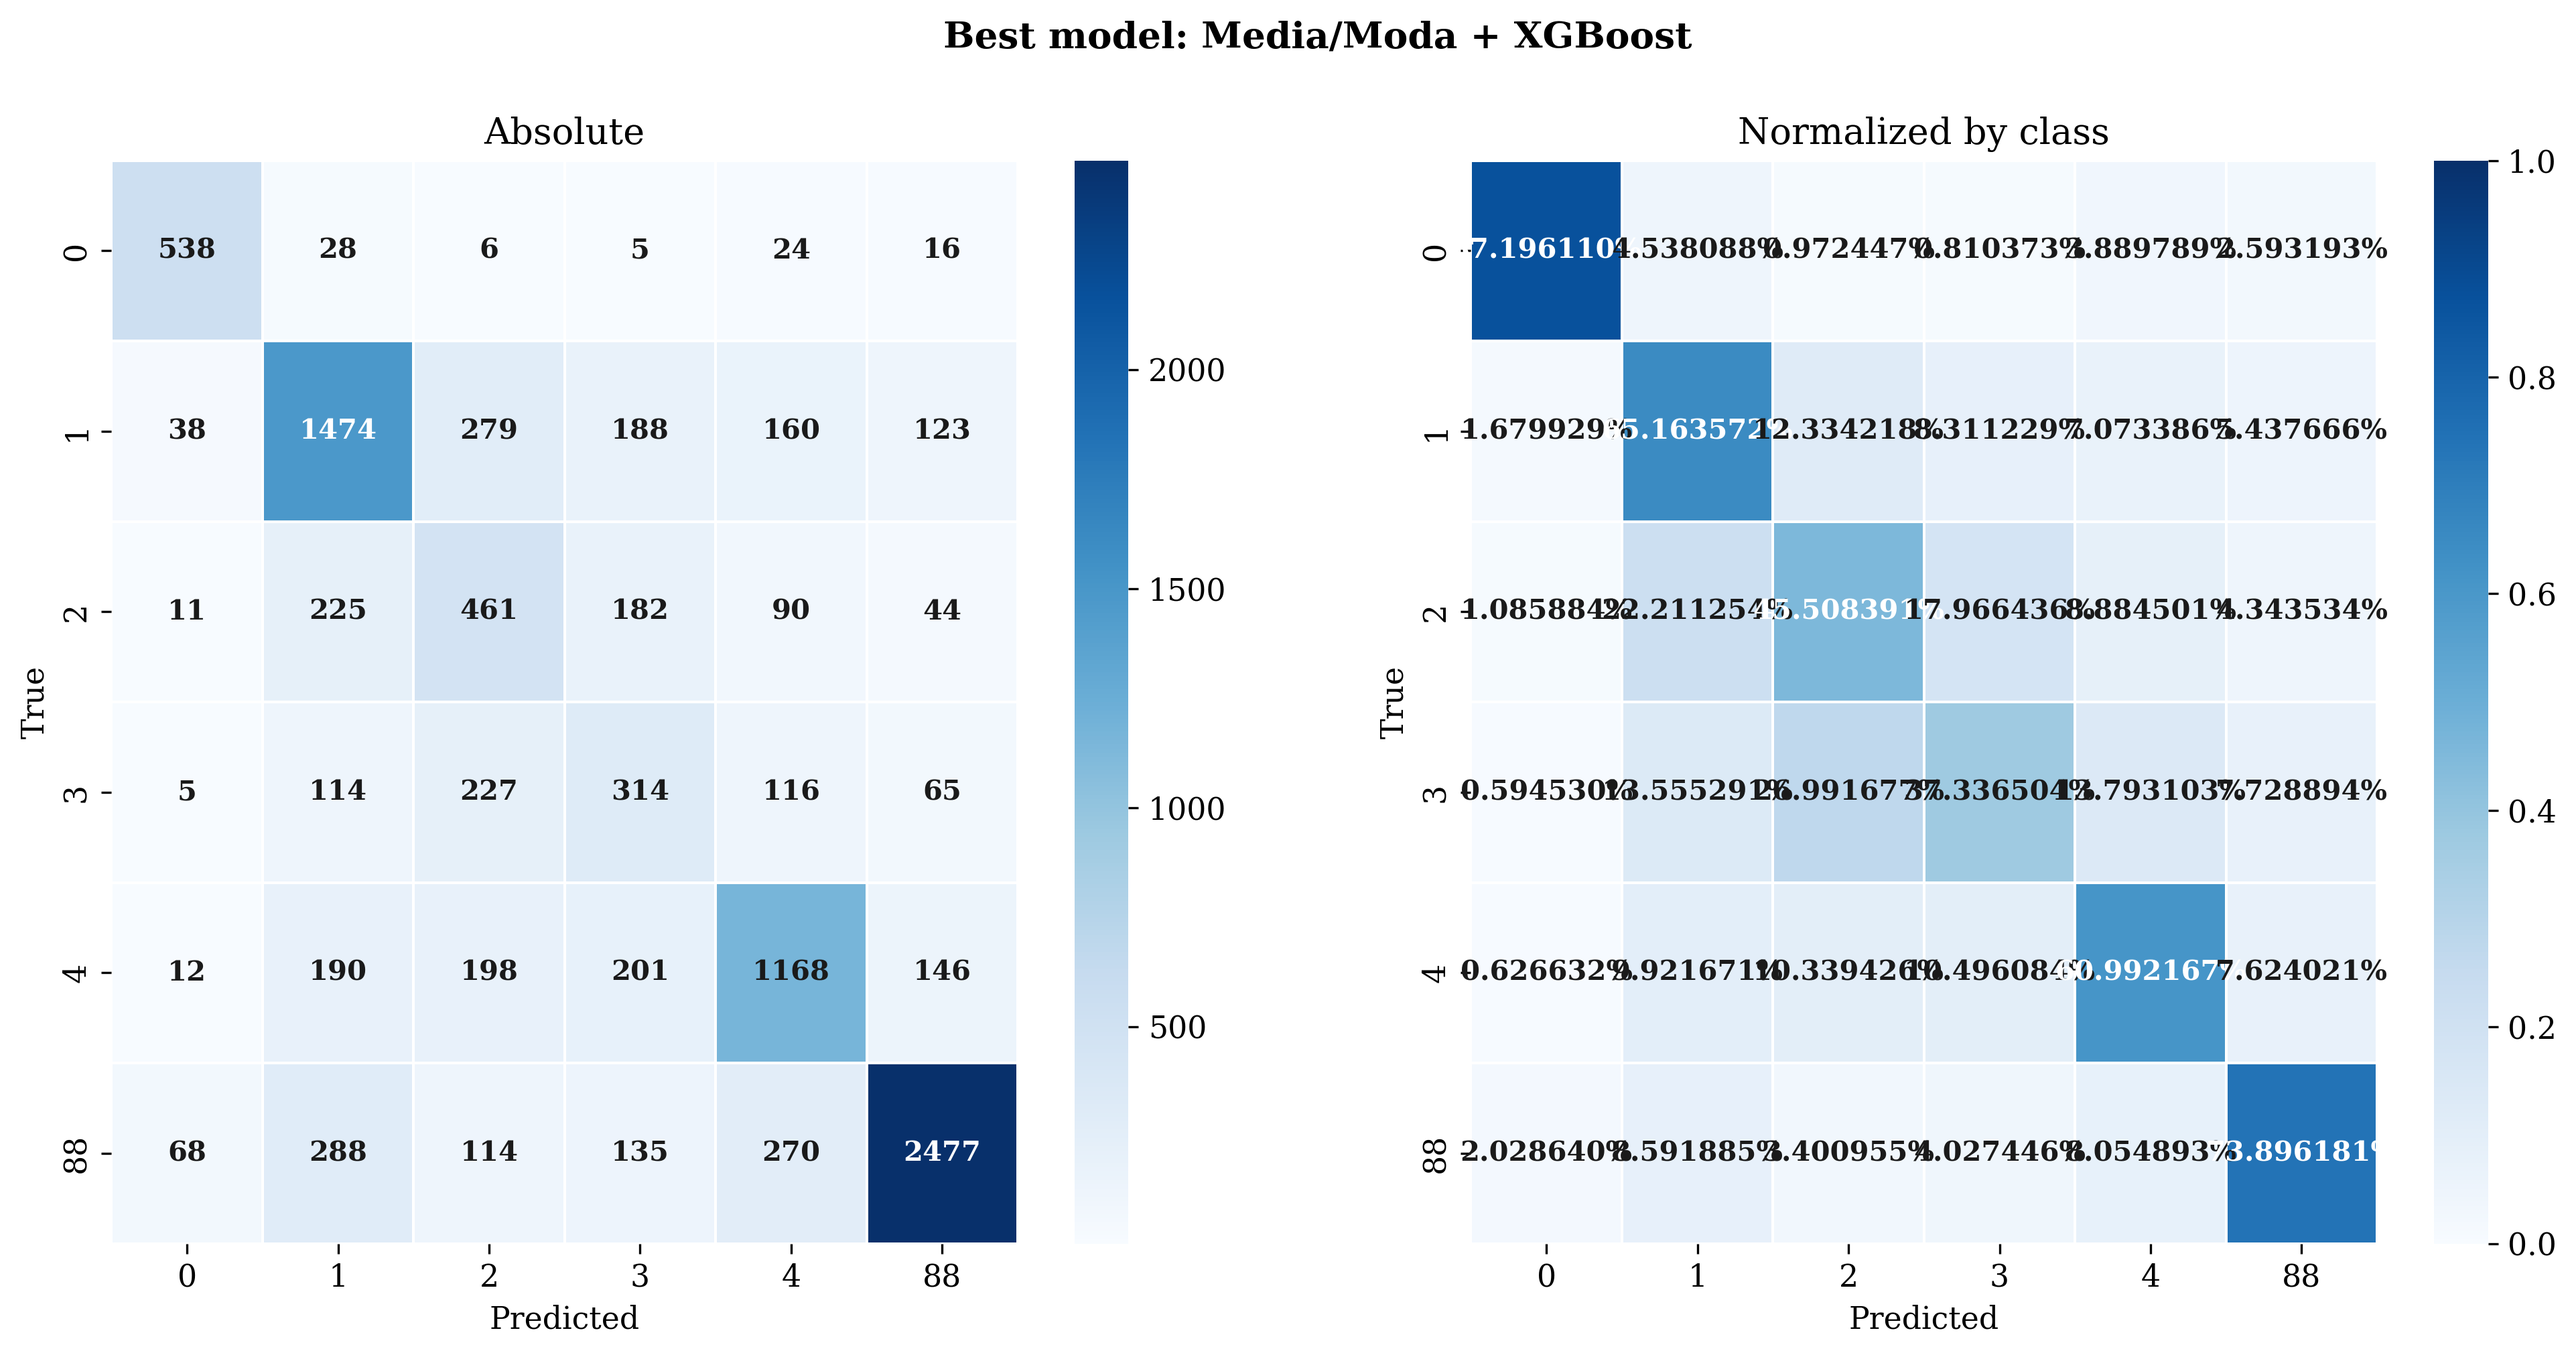
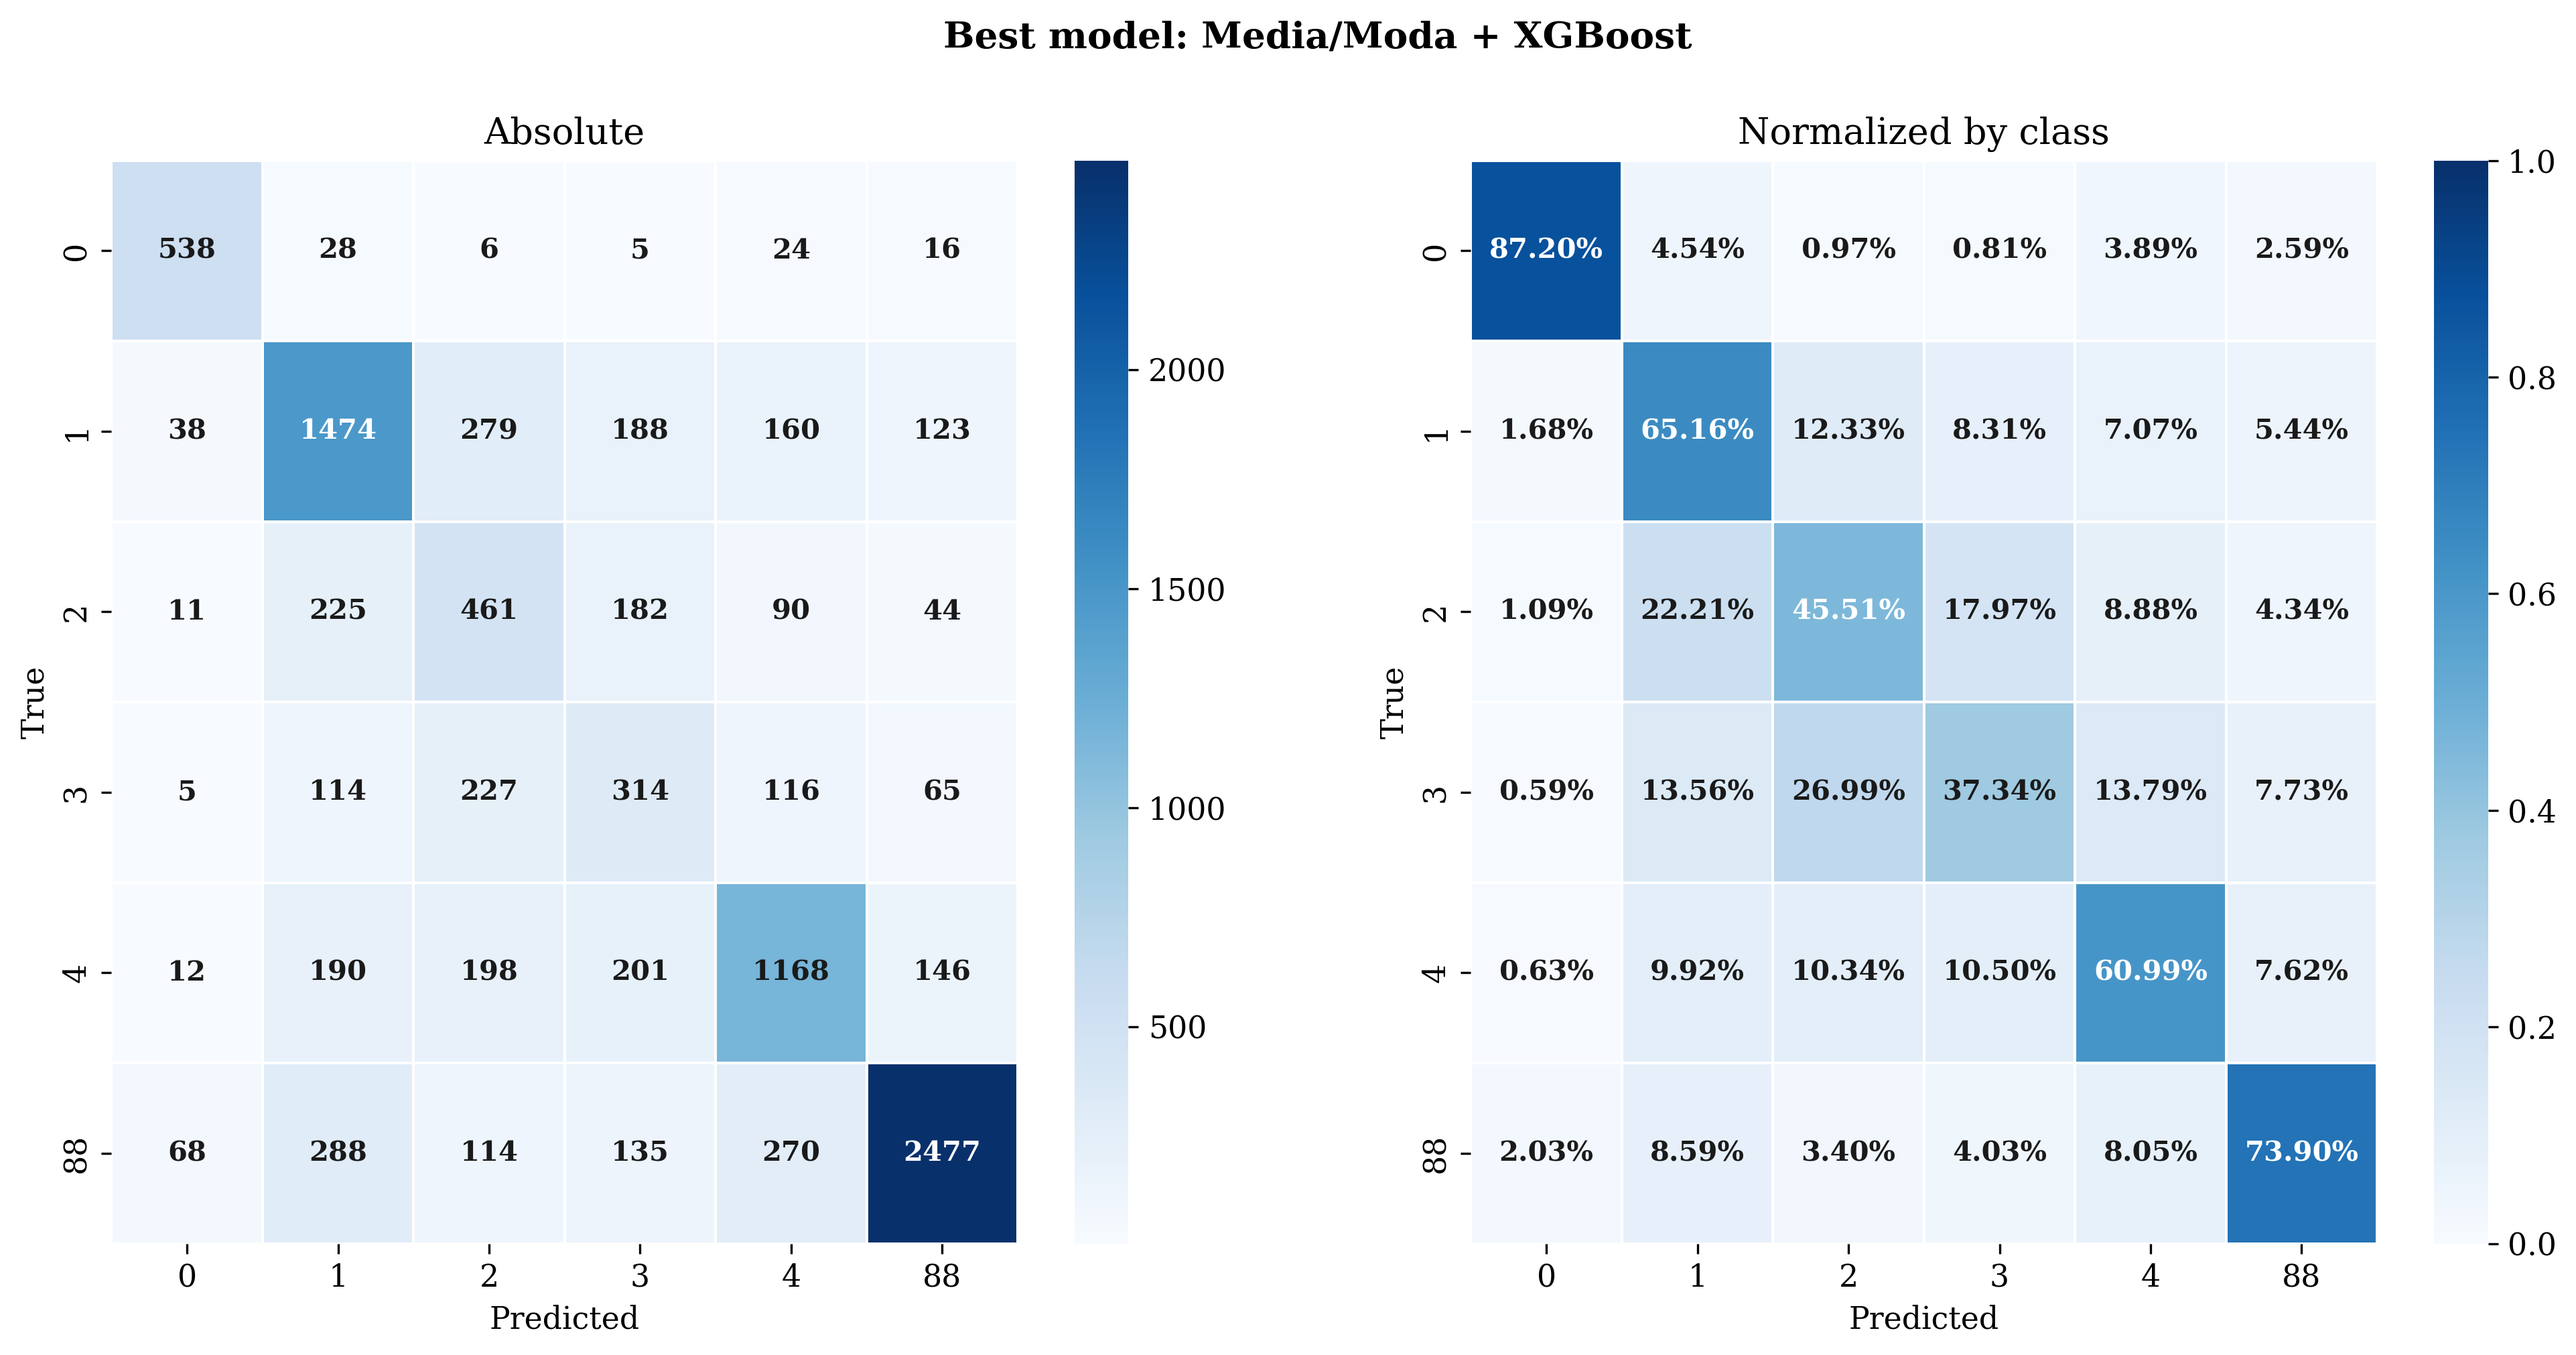
Figuras atualizadas

diff --git a/src/run_analysis.py b/src/run_analysis.py
@@ -271,9 +271,6 @@ def _annotate_heatmap(ax, data, fmt=".4f", fontsize=10, fontweight="bold"):
 
             if fmt == "d":
                 text = f"{int(round(value))}"
-            elif fmt.endswith("%"):
-                precision = fmt[1:-1] if len(fmt) > 2 else ""
-                text = format(value, f"{precision}%")
             else:
                 text = format(value, fmt)
 
